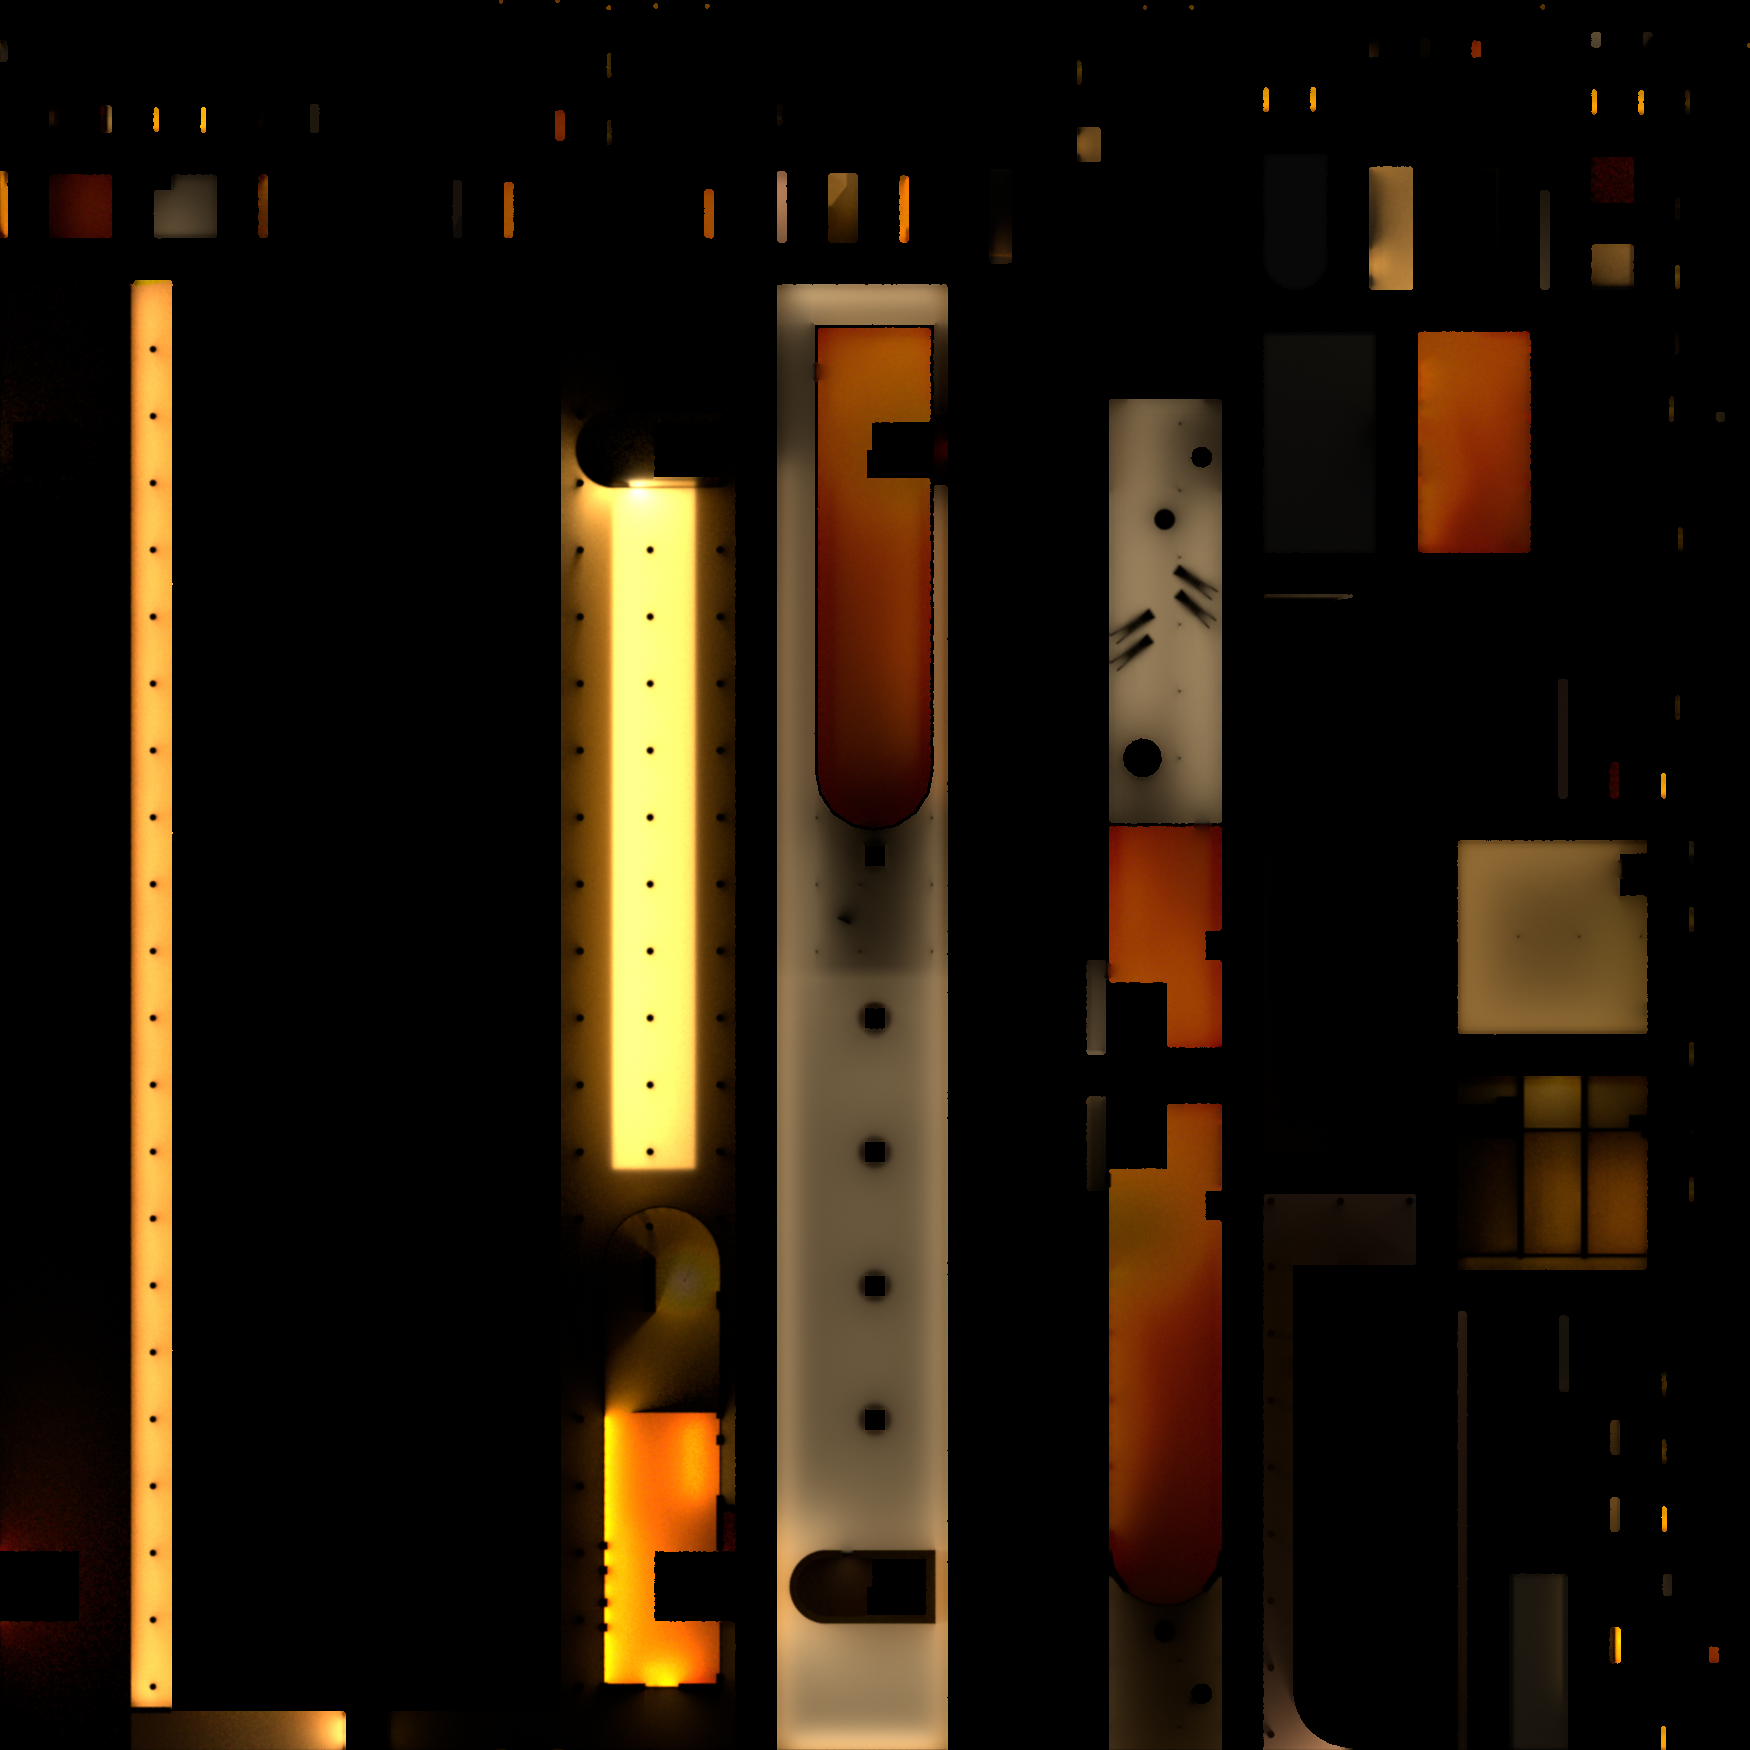
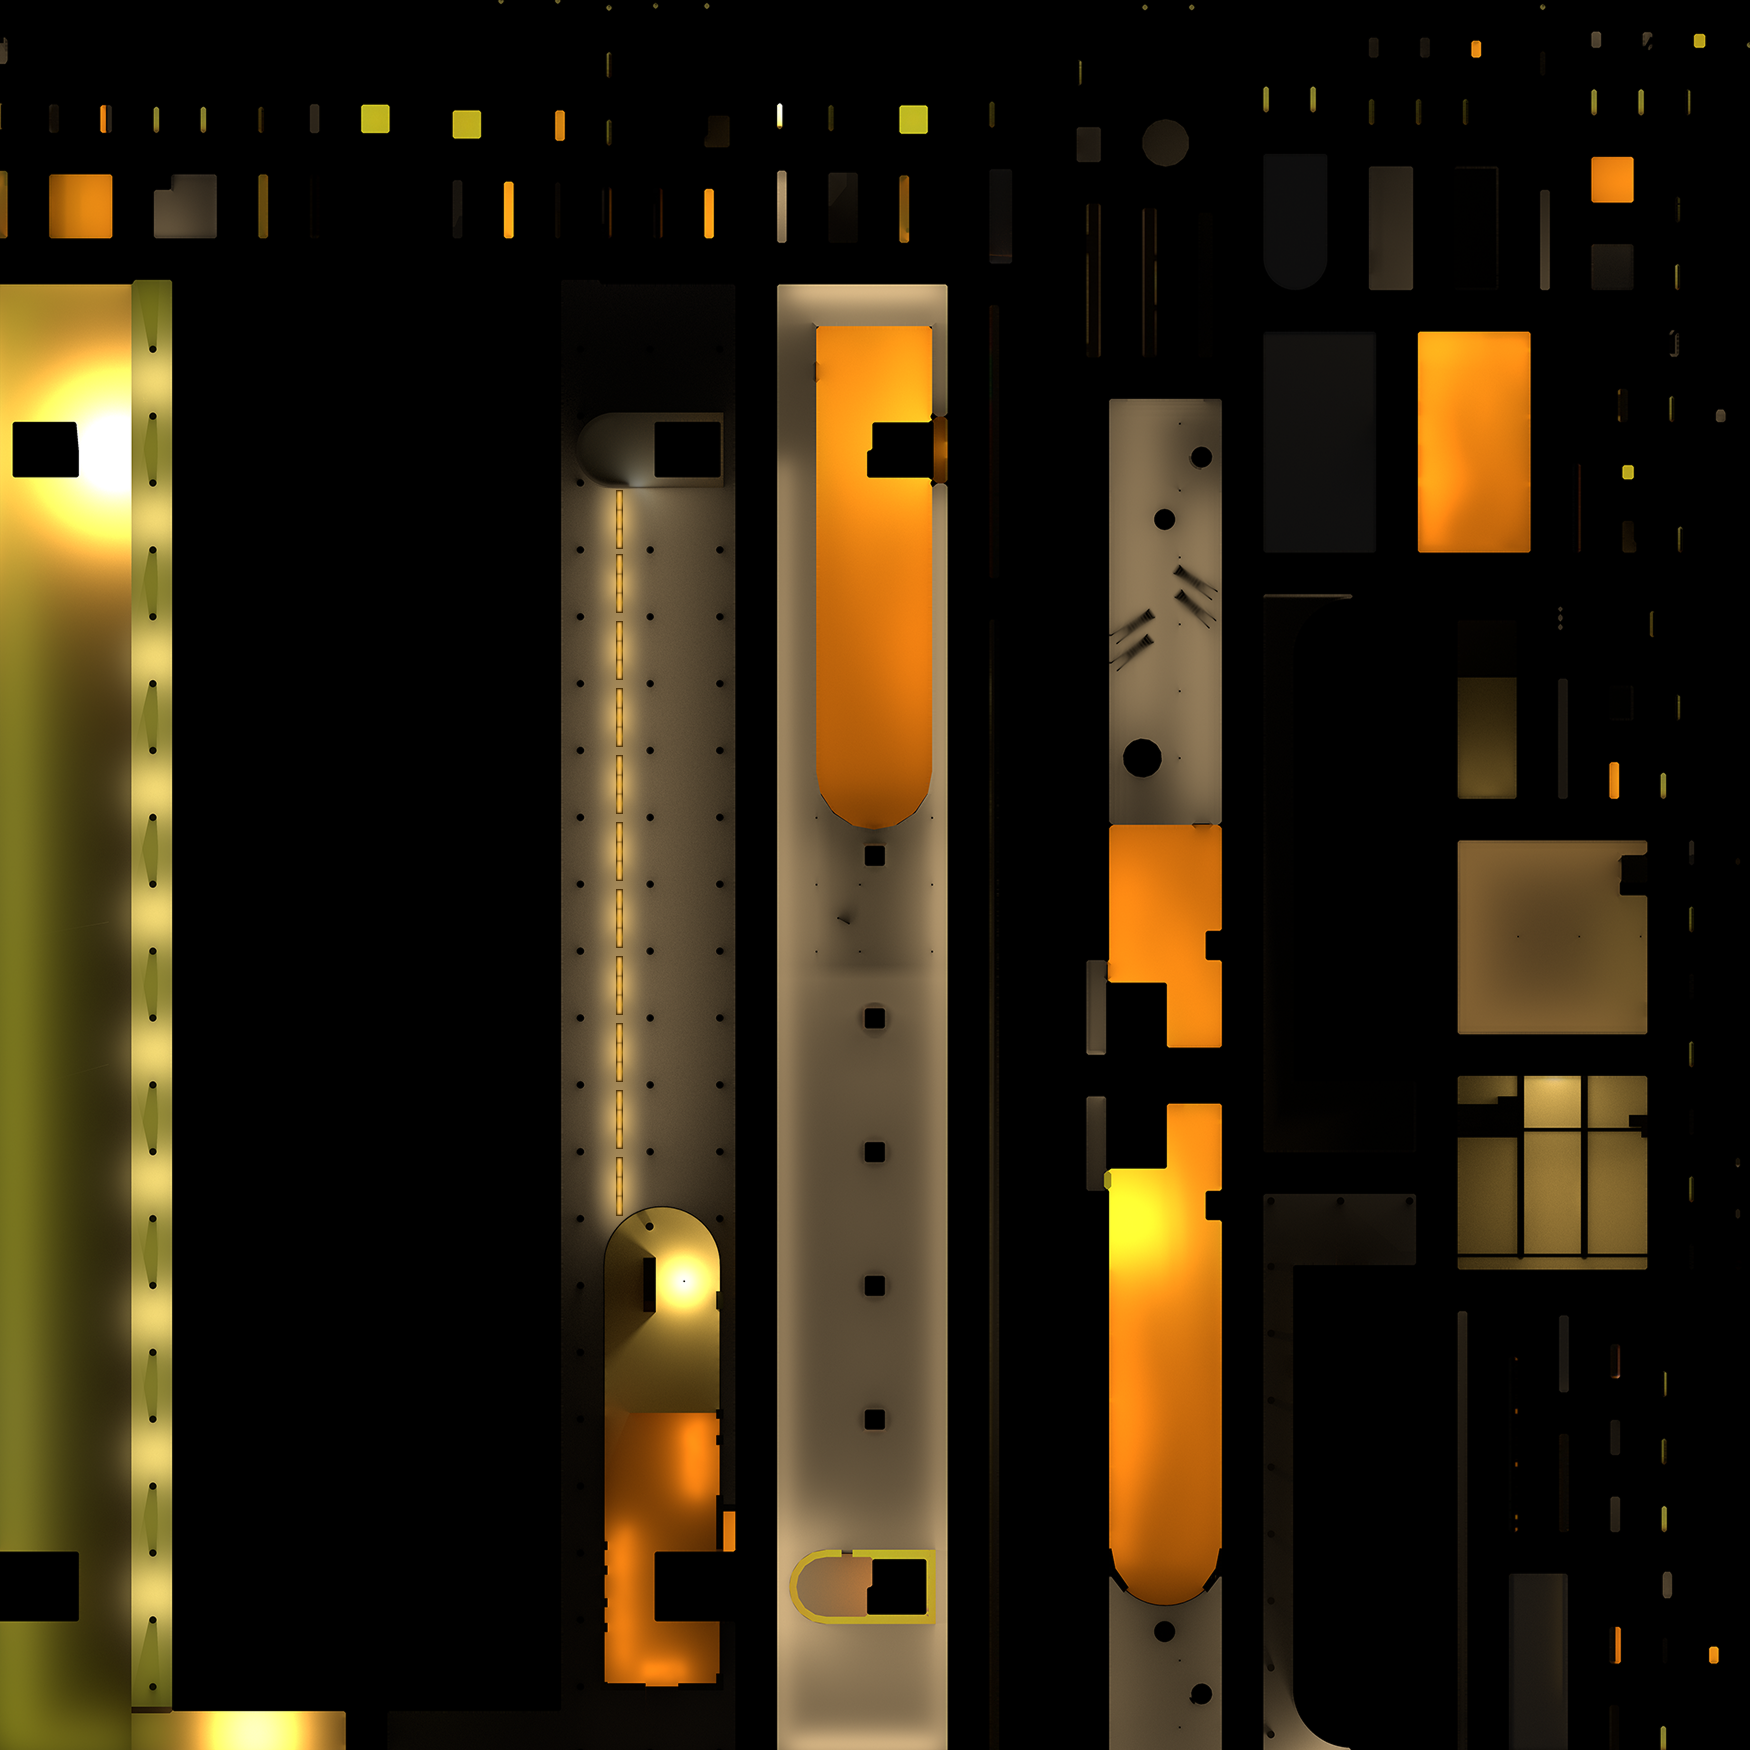
Updates

diff --git a/index.html b/index.html
@@ -24,7 +24,7 @@
   <div class="right" hide></div>
 
   <script src="https://cdnjs.cloudflare.com/ajax/libs/three.js/0.149.0/three.min.js"></script>
-  <script src="./bundle38.js"></script>
+  <script src="./bundle39.js"></script>
   <script type="module">
     const container = document.querySelector(".narkomfin-canvas-container")
     const progressLabel = container.querySelector(".narkomfin-progress-label")
